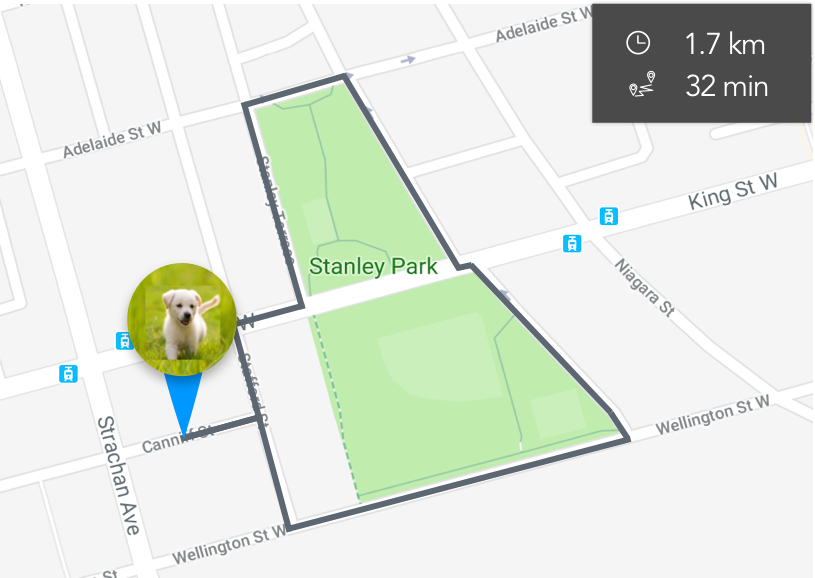
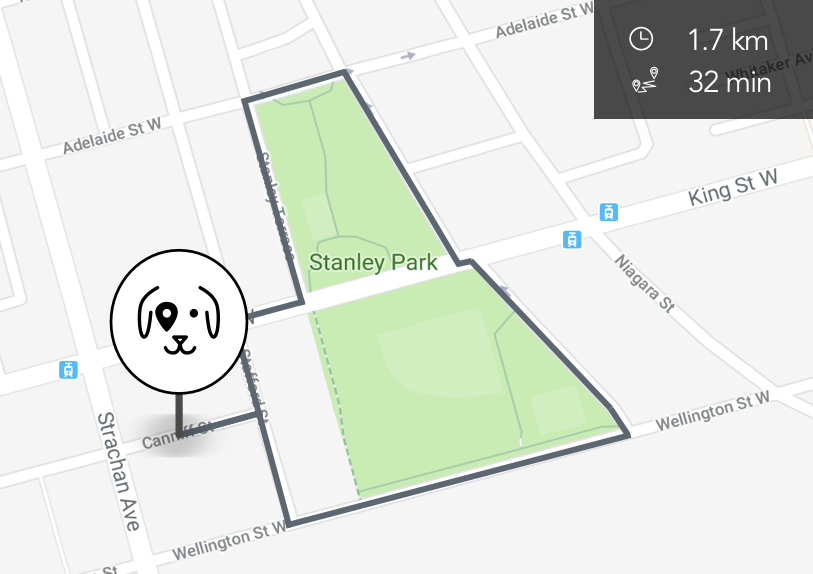
White and black brand

diff --git a/public/styles.css b/public/styles.css
@@ -1,3 +1,7 @@
+body * {
+    transition: all 200ms ease-in-out;
+}
+
 .blue-bg {
     background: linear-gradient(to right, #0098FF, #4FACFE,#4AB0FE,#3CBDFE, #24D2FE, #00F2FE );
 }
@@ -5,12 +9,13 @@
 body {
     min-height: 100vh;
     margin:  0;
+    background-color: #fafafa;
     font-family: 'Rubik', sans-serif;
 }
 
 h1 {
     font-size: 30px;
-    color: #4a4a4a;
+    color: #000;
     width:  100%;
     line-height: 1;
     font-weight:  bold;
@@ -20,9 +25,11 @@ h1 {
 .hero {
     background-image: url(./assets/hero.jpg);
     min-height:  60vh;
-    background-size:  cover;
+    background-size: contain;
+    background-repeat:  no-repeat;
     padding-left: 100px;
-    background-position: center;
+    background-color: #fff;
+    background-position: calc(75% + 72px);
 }
 
 .map-and-title {
@@ -38,17 +45,15 @@ h1 {
 }
 
 #map {
-    max-width: calc(100% - 20px);
-    max-height: calc(100% - 20px);
+    max-width: 100%;
+    max-height: 100%;
     background: #ccc;
-    border: 10px solid #fff;
-    box-shadow: 0px 0px 20px 0px rgba(0, 0, 0, .3);
+    box-shadow: 0px 0px 10px 0px rgba(0, 0, 0, .2);
 }
 
 .signup {
     padding-top: 35px;
     margin-top: -1px;
-    color: #fff;
     min-height: calc(40vh - 23px);
 }
 
@@ -63,28 +68,51 @@ input {
     border: none;
     height: 40px;
     width: 50%;
-    border-radius: 5px;
     text-align: center;
-    color: #4a4a4a;
+    color: #000;
+    box-shadow: 0 0 2px 0px rgba(0, 0, 0, .2);
     font-size: 16px;
     outline: none;
 }
+
+input:hover, input:focus{
+    box-shadow: 0 0 6px 0px rgba(0, 0, 0, .2);
+}
+
 
 .button {
     display: flex;
     justify-content: center;
     width: 30%;
-    background: #4a4a4a;
+    background: #000;
     height: 40px;
     align-items: center;
-    border-radius: 5px;
     margin: auto;
     margin-top: 23px;
     border: none;
     color: #fff;
     font-size: 16px;
     outline: none;
+    box-shadow: 0 0 2px 0px rgba(0, 0, 0, .2);
     cursor:  pointer;
+}
+
+button:hover{
+    box-shadow: 0 0 6px 0px rgba(0, 0, 0, .2);
+}
+
+button:active{
+    box-shadow: 0 0 0px 0px rgba(0, 0, 0, .2);
+}
+
+#err {
+    margin: 5px 0px 0px;
+    color: rgb(222, 54, 54);
+    position: absolute;
+    width: 100%;
+    font-size: 13px;
+    margin-top: 3px;
+    opacity: 0;
 }
 
 
@@ -96,14 +124,17 @@ input {
     }
 
     .hero {
-        background-image: url(./assets/mobile-hero.jpg);
         min-height:  250px;
+        background-position:  center;
     }
 
     h1 {
         font-size: 30px;
-        margin-top: -81px;
-        text-align: center;
+        margin:  10px 20px;
+    }
+
+    h1:first-child {
+        padding-top: 10px;
     }
 
     h2 {
@@ -114,7 +145,6 @@ input {
     .map-and-title {
         position: initial;
         width: 100%;
-        background: #efeeea;
     }
 
     #map {
@@ -124,7 +154,7 @@ input {
     }
 
     .signup {
-        padding-top: 25px;
+        padding-top: 20px;
         margin-top: 0px;
         min-height: unset;
         flex-grow: 1;
@@ -145,7 +175,6 @@ input {
     }
     .map-and-title p {
         font-size: 18px;
-        text-align: center;
-        margin: 10px;
+        margin: 10px 20px;
     }
 }

diff --git a/public/index.html b/public/index.html
@@ -14,7 +14,7 @@
     <link rel="stylesheet" href="./styles.css">
 </head>
 
-<body class='blue-bg'>
+<body>
     <div class="hero">
 
     </div>
@@ -33,7 +33,7 @@
             <h2>Sign Up For More Information</h2>
             <form>
                 <input name='email' type="text" placeholder="Your email">
-                <p style='display:none;margin: 5px 0 5px;color: #de3636;' id='err'>Please check you email address</p>
+                <p id='err'>Please check you email address</p>
                 <button class="button">Sign Up</button>
             </form>
 

diff --git a/public/js/signup.js b/public/js/signup.js
@@ -19,7 +19,7 @@ $('.button').on('click', function (e) {
     e.preventDefault()
 
     if (!validateEmail())
-        return $('#err').show()
+        return $('#err').css('opacity', 1)
 
     $.ajax({
         url: 'https://script.google.com/macros/s/AKfycbw2N0X2-GkZp_9k6FP5JPYQ1c3no8ItSXp9ipWv4UmA2CMoHeg/exec',

diff --git a/public/js/spin.js b/public/js/spin.js
@@ -13,7 +13,7 @@ var defaults = {
     radius: 10,
     scale: 1.0,
     corners: 1,
-    color: '#fff',
+    color: '#000',
     fadeColor: 'transparent',
     opacity: 0.25,
     rotate: 0,
